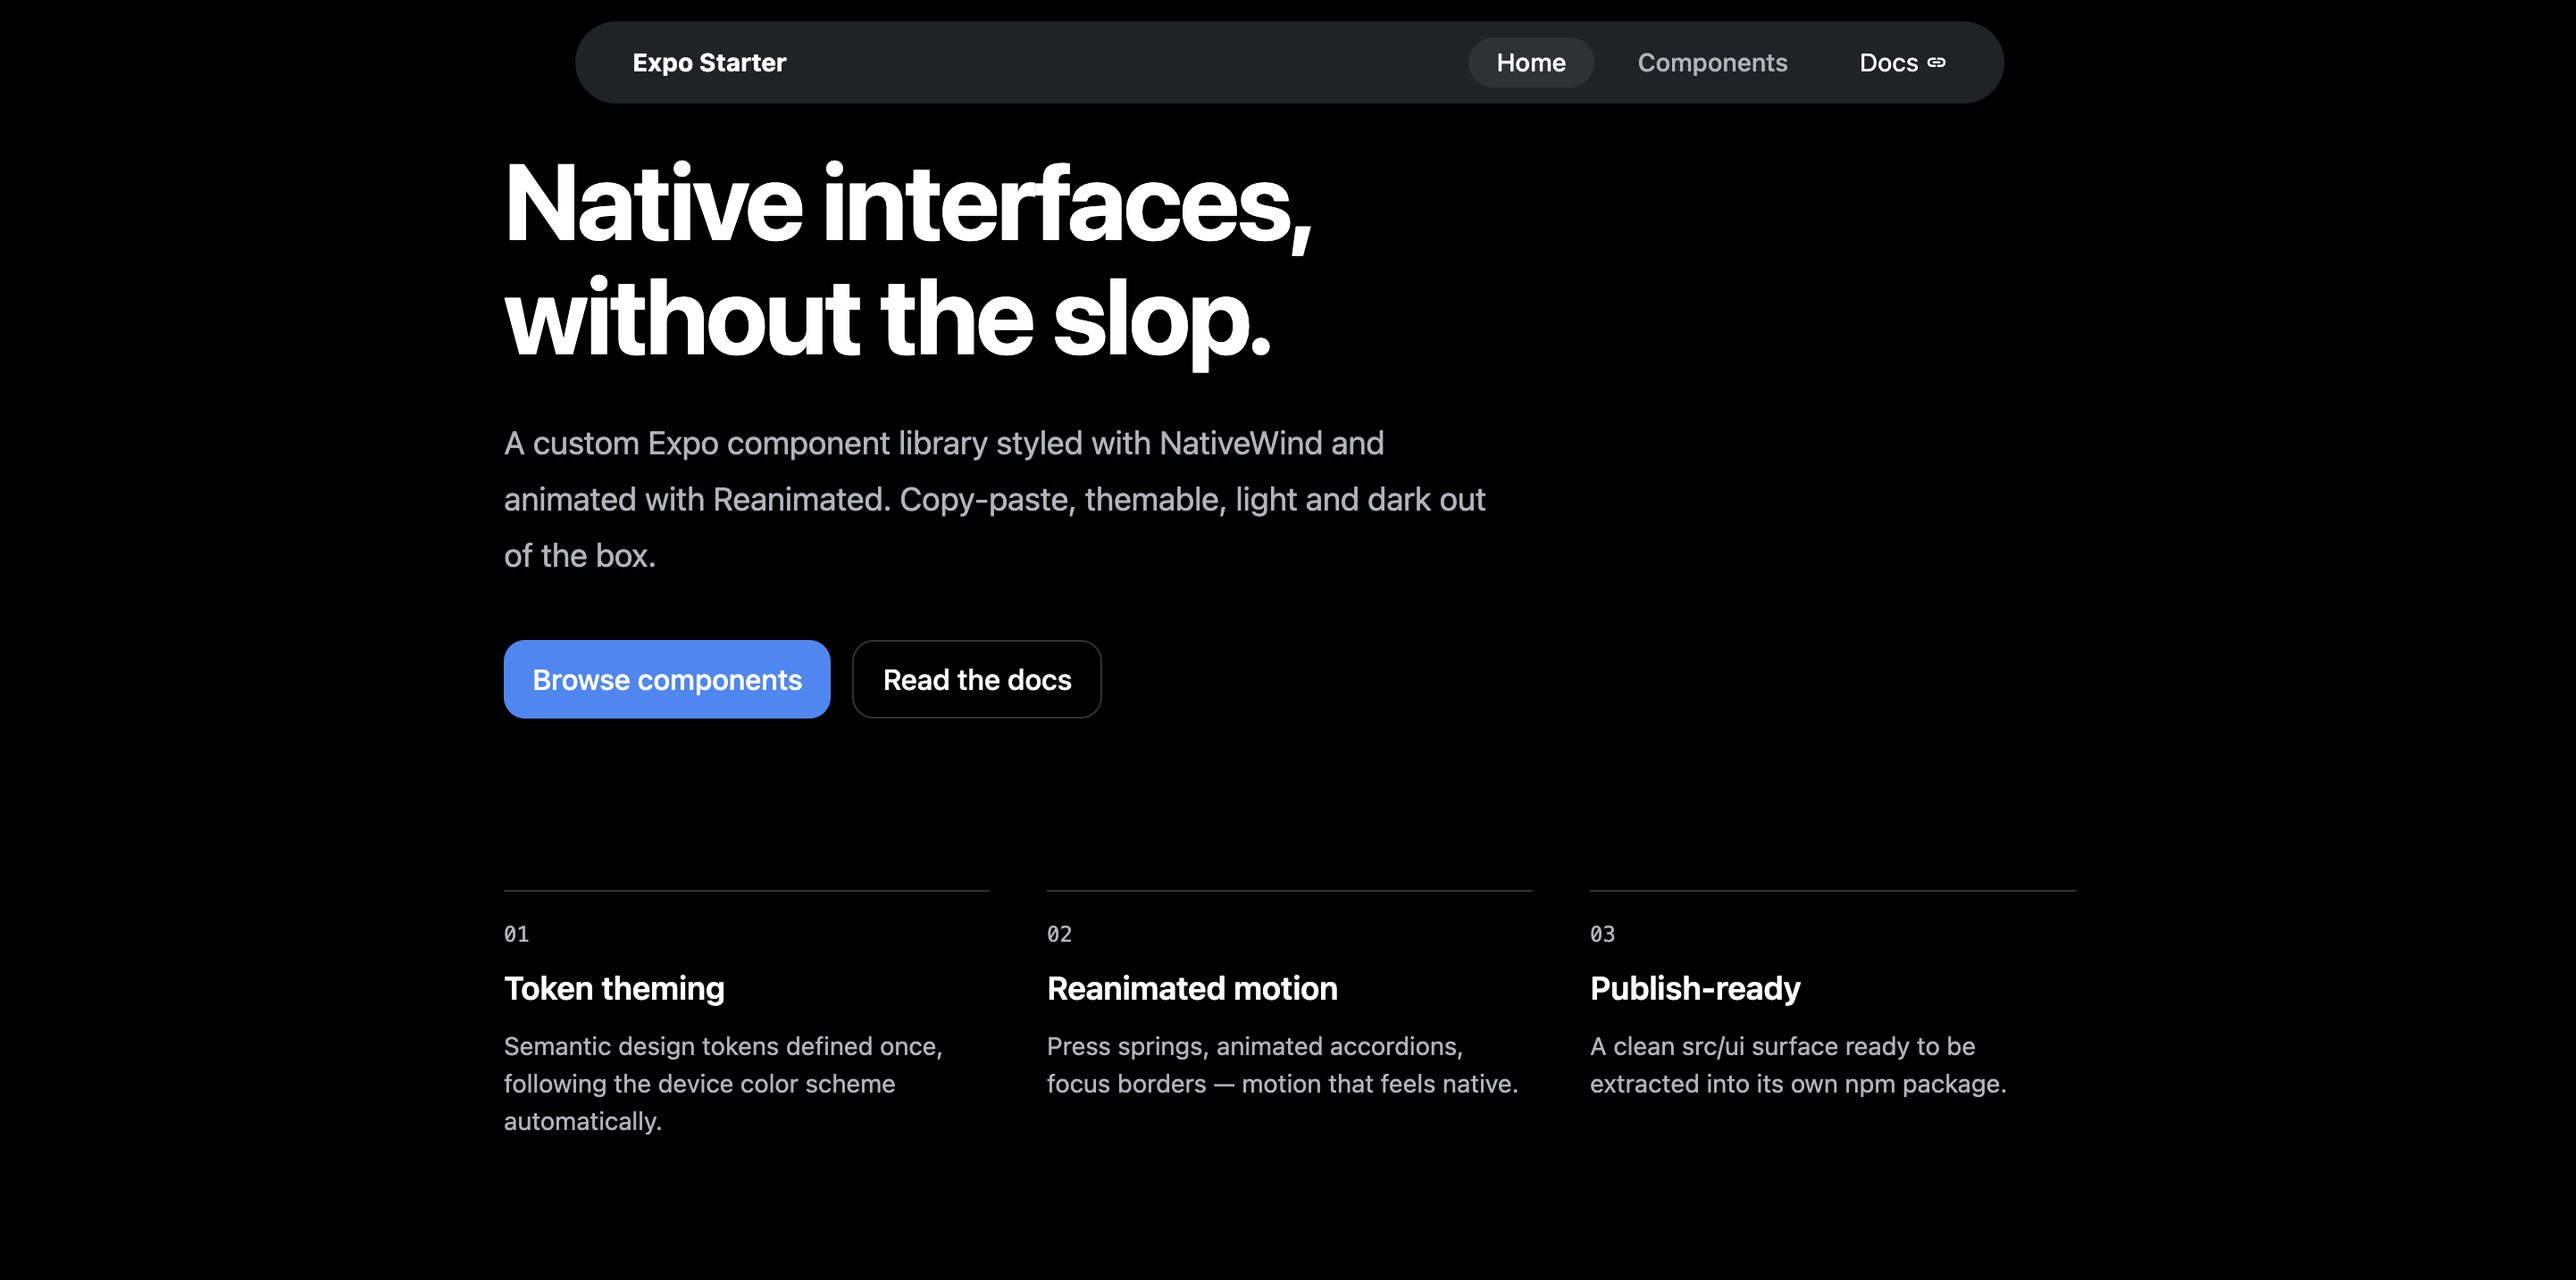
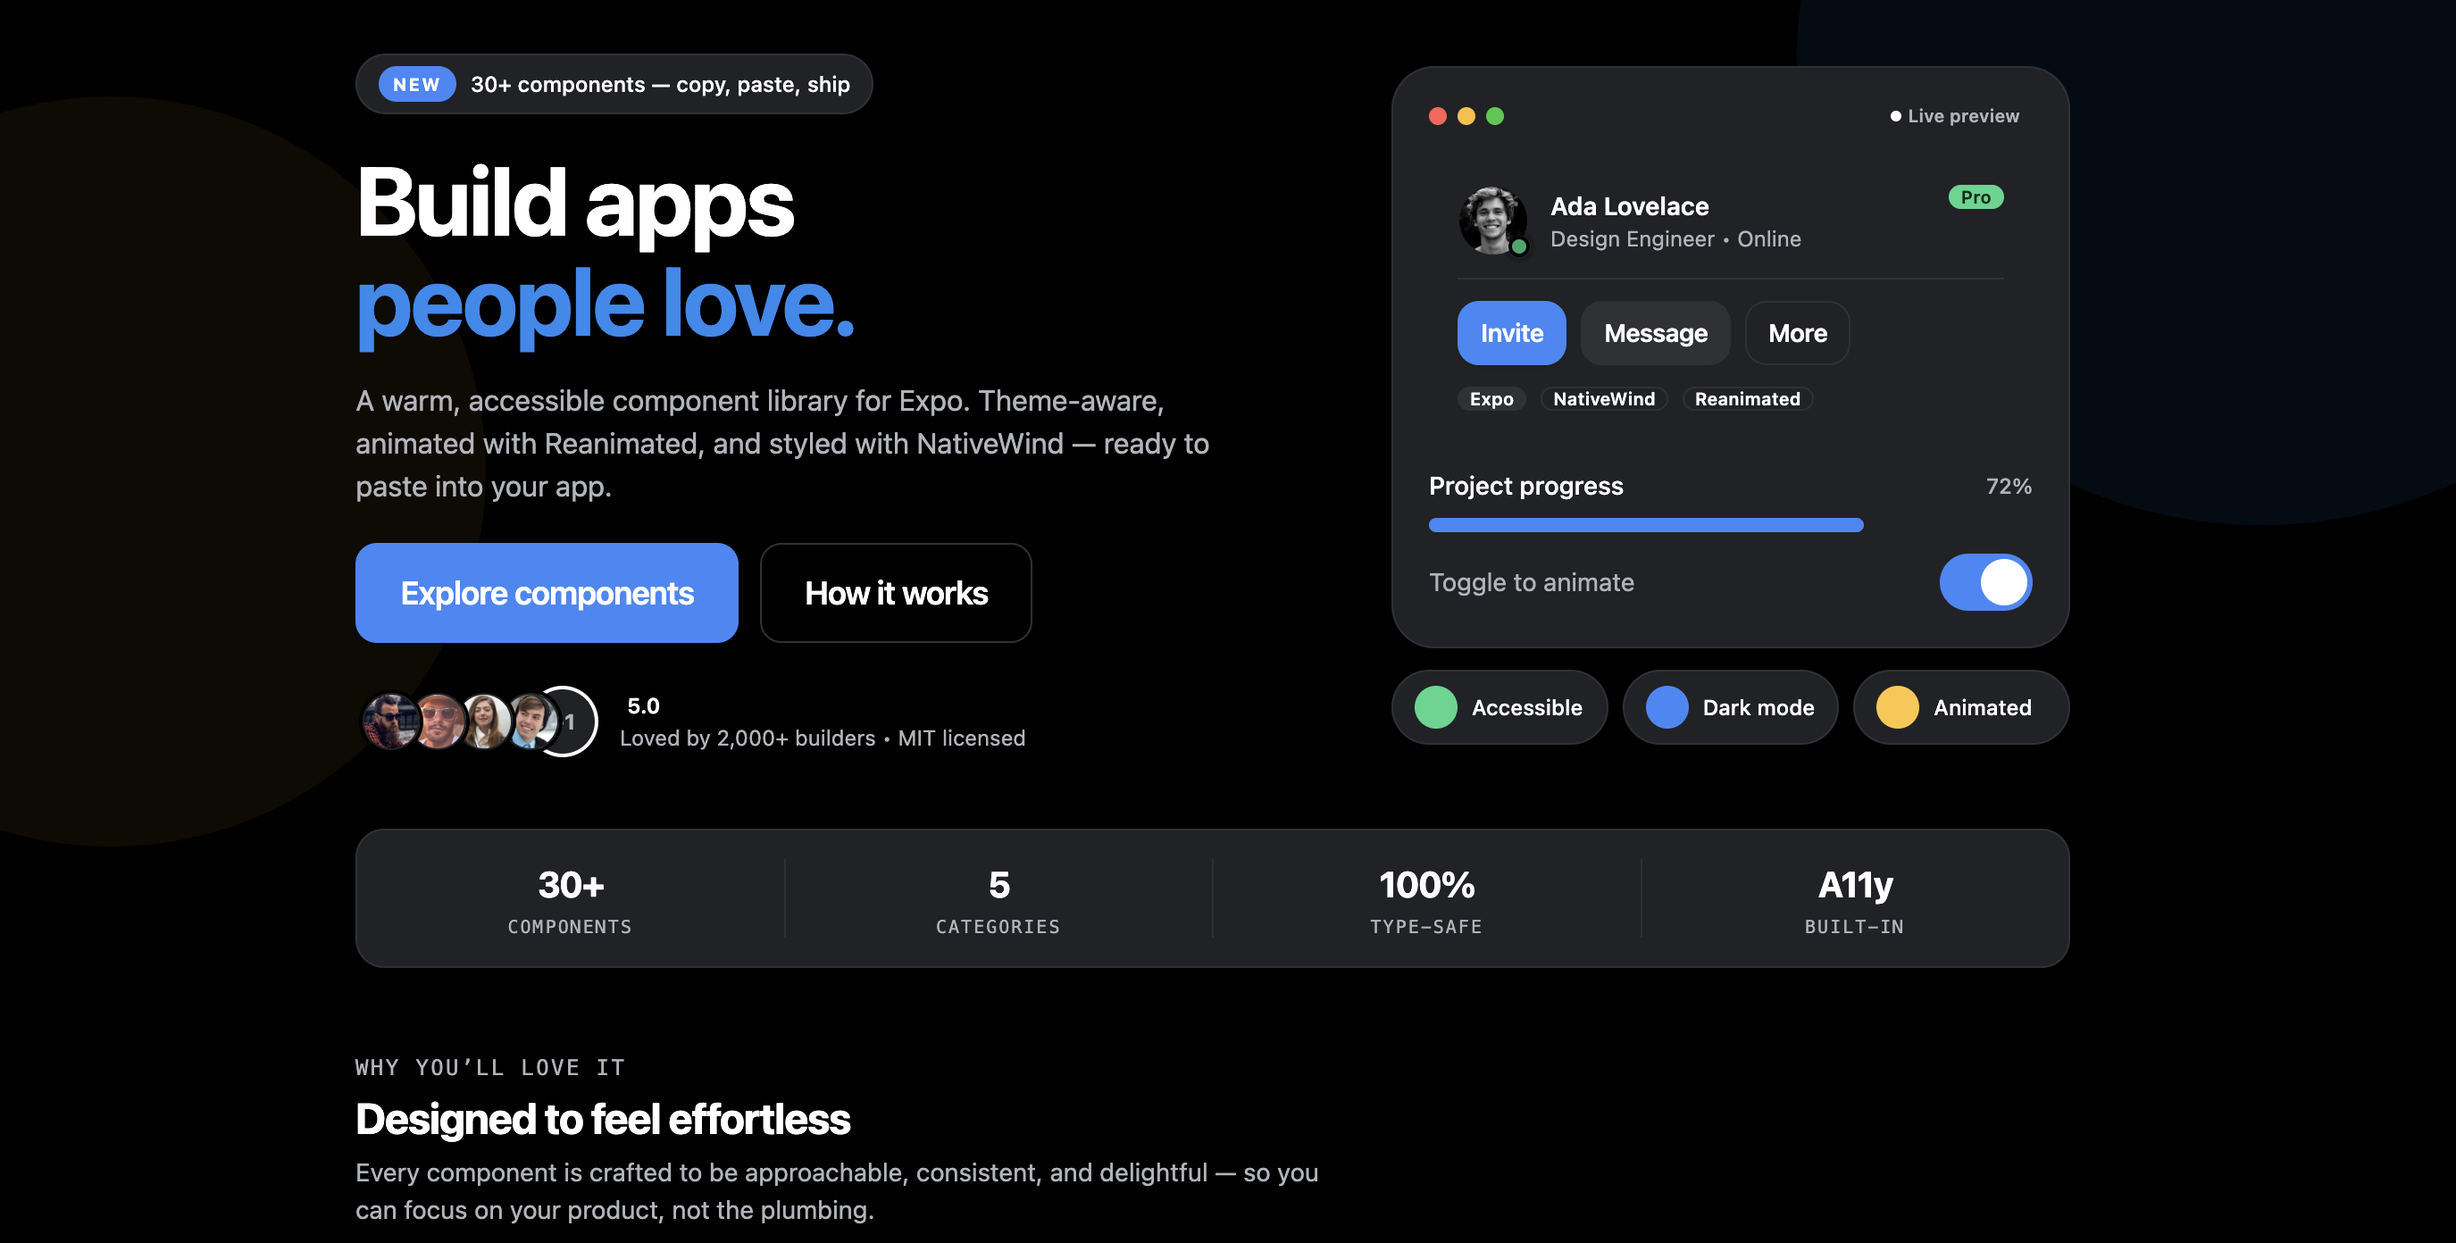
adding new project

diff --git a/src/data/resume.jsx b/src/data/resume.jsx
@@ -39,6 +39,14 @@ import carRental5 from "../assets/car_rental5.png";
 import flappybird1 from "../assets/flappybird1.png";
 import flappybird2 from "../assets/flappybird2.png";
 
+
+
+
+import indri from "../assets/indri.png";
+import indri1 from "../assets/indri1.png";
+import indri2 from "../assets/indri2.png";
+import indri3 from "../assets/indri3.png";
+
 import jp1 from "../assets/jp1.png";
 import jp2 from "../assets/jp2.png";
 import jp3 from "../assets/jp3.png";
@@ -49,6 +57,8 @@ import E2 from "../assets/E2.png";
 
 import UL from "../assets/UL.png";
 import UL1 from "../assets/UL1.png";
+import UL2 from "../assets/UL2.png";
+import UL3 from "../assets/UL3.png";
 
 export const DATA = {
   name: "Ankur Jangid",
@@ -157,7 +167,31 @@ export const DATA = {
 
   projects: [
     {
-      title: "Trading App",
+      title: "Indri ",
+      href: "#",
+      dates: "2026",
+      active: true,
+      description:
+        "Redesign the Indri website, making it more interactive using 3D elements and adding a little spice of animation while maintaining the Indian vibe.",
+      technologies: ["three.js ", "Next.js ", "Node.js"],
+      links: [{ type: "Source", href: "https://github.com/AKjangid99/indri", icon: SiGithub }, { type: "Live", href: "https://indri-malt-whisky.vercel.app/" }],
+      images: [indri, indri1, indri2, indri3],
+      video: "",
+    },
+    {
+      title: "UI library",
+      href: "#",
+      dates: "2026",
+      active: true,
+      description:
+        "Built a reusable React Native UI component library with customizable, production-ready components, consistent theming, and a focus on accessibility and developer experience.",
+      technologies: ["React Native", "Expo"],
+      links: [{ type: "Source", href: "https://github.com/AKjangid99/Component-Library-for-Mobile", icon: SiGithub }, { type: "Live", href: "https://component-library-for-mobile.vercel.app" }],
+      images: [UL, UL1, UL2, UL3],
+      // video: "",
+    },
+    {
+      title: "Trading Mobile App",
       href: "#",
       dates: "2026",
       active: true,
@@ -169,39 +203,66 @@ export const DATA = {
       // video: "",
     },
     {
-      title: "UI library",
+      title: "Mecanica",
       href: "#",
       dates: "2026",
       active: true,
       description:
-        "Built a reusable React Native UI component library with customizable, production-ready components, consistent theming, and a focus on accessibility and developer experience.",
-      technologies: ["React Native", "Expo"],
-      links: [{ type: "Source", href: "https://github.com/AKjangid99/Component-Library-for-Mobile", icon: SiGithub }],
-      images: [UL, UL1],
-      // video: "",
+        "Built an interactive 3D engine visualization to practice Three.js, featuring smooth animations and immersive 3D interactions.",
+      technologies: ["Three.js"],
+      links: [{ type: "Source", href: "https://github.com/AKjangid99/engine_dignose", icon: SiGithub }, { type: "Live", href: "https://engine-dignose.vercel.app/" }],
+      image: [E1, E2],
+      video: "",
     },
+
     {
-      title: "Car Rental App",
+      title: "Car Rental ",
       href: "#",
       dates: "2026",
       active: true,
       description:
         "A car rental platform where users browse available cars, book rentals, and manage their trips, with authentication and a responsive interface.",
       technologies: ["React Native", "Expo", "Node.js", "MongoDB"],
-      links: [{ type: "Source", href: "https://github.com/AKjangid99/car-rental-frontend", icon: SiGithub }],
+      links: [{ type: "Source", href: "https://github.com/AKjangid99/car-rental-frontend", icon: SiGithub }, { type: "Live", href: "https://car-rental-frontend-nine-liart.vercel.app" }],
       images: [carRental1, carRental2, carRental3, carRental4, carRental5],
       video: "",
     },
     {
       title: "Job Portal",
       href: "#",
-      dates: "2024  ",
+      dates: "2024",
       active: true,
       description:
         "A full-stack job portal where recruiters post openings and candidates apply, with authentication, search and application tracking.",
       technologies: ["React", "Tailwind CSS", "Express.js", "MongoDB"],
-      links: [{ type: "Source", href: "https://github.com/AKjangid99/Job_protel", icon: SiGithub }],
+      links: [{ type: "Source", href: "https://github.com/AKjangid99/Job_protel", icon: SiGithub }, { type: "Live", href: "https://job-protel.vercel.app" }],
       image: [jp1, jp2, jp3, jp4],
+      // video: "",
+    },
+
+    {
+      title: "Flappy Bird",
+      href: "#",
+      dates: "2023",
+      active: true,
+      description:
+        "A clone of the classic Flappy Bird with physics-based movement, procedural obstacles and score tracking.",
+      technologies: ["C#", "Unity"],
+      links: [{ type: "Source", href: "https://github.com/AKjangid99/Flappy_Bird", icon: SiGithub }],
+      image: [flappybird1, flappybird2],
+      video: "",
+    },
+
+    {
+      title: "UNO Game",
+      href: "#",
+      dates: "2022",
+      active: true,
+      description:
+        "A browser-based UNO card game implementing full turn logic, card effects and win conditions in vanilla JavaScript.",
+      technologies: ["HTML", "CSS", "JavaScript"],
+      links: [{ type: "Source", href: "https://github.com/AKjangid99/Uno-card-game", icon: SiGithub }, { type: "Live", href: "https://eloquent-zuccutto-47fbc9.netlify.app/" }],
+      image: unoImage,
       video: "",
     },
     // {
@@ -228,42 +289,6 @@ export const DATA = {
     //   image: "",
     //   video: "",
     // },
-    {
-      title: "Flappy Bird",
-      href: "#",
-      dates: "2023",
-      active: true,
-      description:
-        "A clone of the classic Flappy Bird with physics-based movement, procedural obstacles and score tracking.",
-      technologies: ["C#", "Unity"],
-      links: [{ type: "Source", href: "https://github.com/AKjangid99/Flappy_Bird", icon: SiGithub }],
-      image: [flappybird1, flappybird2],
-      video: "",
-    },
-    {
-      title: "UNO Game",
-      href: "#",
-      dates: "2022",
-      active: true,
-      description:
-        "A browser-based UNO card game implementing full turn logic, card effects and win conditions in vanilla JavaScript.",
-      technologies: ["HTML", "CSS", "JavaScript"],
-      links: [{ type: "Source", href: "https://github.com/AKjangid99/Uno-card-game", icon: SiGithub }],
-      image: unoImage,
-      video: "",
-    },
-    {
-      title: "3js",
-      href: "#",
-      dates: "2026",
-      active: true,
-      description:
-        "Built an interactive 3D engine visualization to practice Three.js, featuring smooth animations and immersive 3D interactions.",
-      technologies: ["Three.js"],
-      links: [{ type: "Source", href: "https://github.com/AKjangid99/Uno-card-game", icon: SiGithub }],
-      image: [E1, E2],
-      video: "",
-    },
   ],
 
   hackathons: [],
